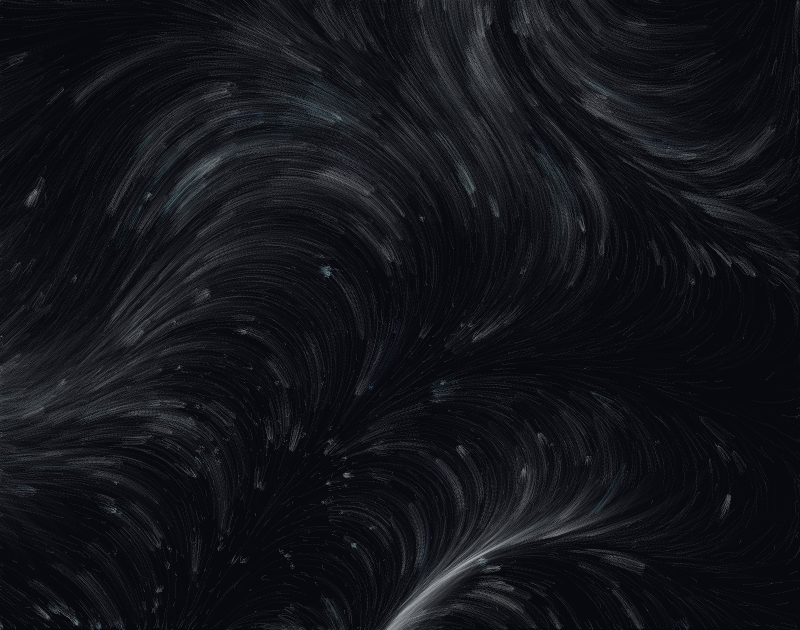
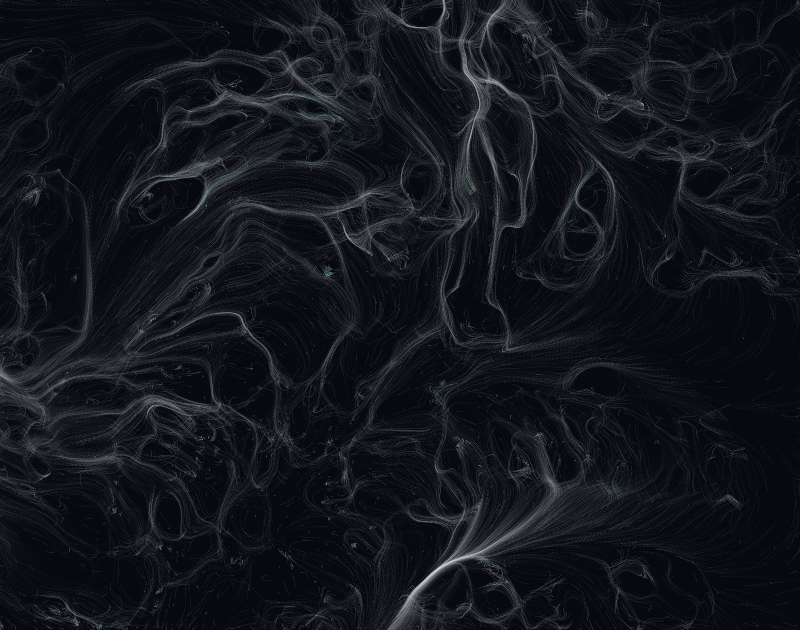
Let pigment follow the artwork's own lines so each image leaves its own trace
Claude-Session: https://claude.ai/code/session_019b8jW4kSTC1Xc4PBdgPA9h

diff --git a/swarm_gaze.py b/swarm_gaze.py
@@ -25,7 +25,7 @@ from pathlib import Path
 
 import imageio.v3 as iio
 import numpy as np
-from PIL import Image
+from PIL import Image, ImageFilter
 
 DEFAULT_IMAGE = Path(__file__).parent / "assets" / "drawing.jpg"
 
@@ -64,6 +64,17 @@ def salience_map(rgb):
     sal = 0.6 * edges + 0.4 * sat
     sal = sal / (sal.max() + 1e-6)
     return sal ** 1.2
+
+
+def line_directions(rgb, blur=6):
+    """For every pixel: the direction a line runs in, and how strongly a line is nearby."""
+    img = Image.fromarray(rgb).convert("L").filter(ImageFilter.GaussianBlur(blur))
+    lum = np.asarray(img, np.float32) / 255.0
+    gy, gx = np.gradient(lum)
+    mag = np.hypot(gx, gy) + 1e-6
+    tx, ty = -gy / mag, gx / mag            # perpendicular to the gradient = along the line
+    pull = np.clip(mag / np.percentile(mag, 97), 0, 1) ** 0.7
+    return tx.astype(np.float32), ty.astype(np.float32), pull.astype(np.float32)
 
 
 # ---------------------------------------------------------------------------
@@ -145,6 +156,7 @@ class Pigment:
         self.flow = flow
         self.decay = decay
         self.canvas = np.zeros((self.h, self.w, 3), np.float32)
+        self.tx, self.ty, self.pull = line_directions(rgb)
         self.cap = capacity
         self.p = np.zeros((capacity, 2), np.float32)
         self.v = np.zeros((capacity, 2), np.float32)
@@ -173,9 +185,17 @@ class Pigment:
         alive = self.life > 0
         p, v = self.p[alive], self.v[alive]
         x, y = p[:, 0], p[:, 1]
+        # a gentle wind everywhere...
         angle = (np.sin(x * 0.006 + self.t * 0.4) + np.cos(y * 0.005 - self.t * 0.3)
                  + np.sin((x + y) * 0.0032 + self.t * 0.2)) * np.pi * 0.75
-        v = v * 0.9 + np.stack([np.cos(angle), np.sin(angle)], 1) * self.flow * 0.1
+        wind = np.stack([np.cos(angle), np.sin(angle)], 1)
+        # ...but near a line, particles follow the direction of that line
+        xi = np.clip(x.astype(int), 0, self.w - 1)
+        yi = np.clip(y.astype(int), 0, self.h - 1)
+        along = np.stack([self.tx[yi, xi], self.ty[yi, xi]], 1)
+        along *= np.sign((along * v).sum(1, keepdims=True) + 1e-6)  # keep moving forwards
+        k = self.pull[yi, xi][:, None]
+        v = v * 0.9 + (k * along + (1 - k) * wind) * self.flow * 0.1
         p = p + v
         self.p[alive], self.v[alive] = p, v
         self.life[alive] -= 1

diff --git a/README.md b/README.md
@@ -27,7 +27,7 @@ Outputs: `swarm_gaze.mp4` (the moving piece), `pigment.png` (last frame), `atten
 
 1. **Noticing.** The image is turned into a salience map: strong edges and saturated colour. This is a crude kind of attention, with no feeling behind it.
 2. **Lingering.** A swarm moves over the map using a simplified version of Dispersive Flies Optimisation (DFO). Flies stay longer where the image stands out, then lose interest (an inhibition map) and move on. Where they linger is what the machine has "noticed". A small panel shows this as a heat map.
-3. **Pigment.** Each fly releases particles that carry the colour it is looking at. The particles drift on a flow field and fade, so the picture becomes a moving record of the swarm's gaze.
+3. **Pigment.** Each fly releases particles that carry the colour it is looking at. Near a line, particles flow along the direction of that line; in empty space, a gentle wind carries them. They fade over time, so each artwork leaves its own moving trace of the swarm's gaze. (In the Python version; the browser version still uses only the wind.)
 
 ## Controls
 
